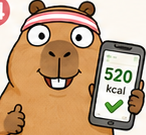
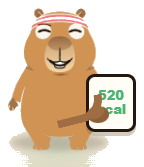
Use server-exported Mochi mascot in mobile APK

diff --git a/eatfitai-mobile/__tests__/mascotExperience.test.js b/eatfitai-mobile/__tests__/mascotExperience.test.js
@@ -7,7 +7,7 @@ const readSource = (relativePath) => {
 };
 
 describe('Mochi mascot experience', () => {
-  it('defines a reusable vector-rig Mochi component with the planned animation states', () => {
+  it('defines a reusable Mochi component with the planned animation states', () => {
     const source = readSource('src/components/MascotCharacter.tsx');
 
     expect(source).toContain('export type MascotState');
@@ -87,7 +87,7 @@ describe('Mochi mascot experience', () => {
     expect(testIdsSource).toContain("mochiPreviewScreen: 'mochi-preview-screen'");
   });
 
-  it('renders Mochi Room with a layered vector rig instead of PNG sprites or GLView', () => {
+  it('renders Mochi Room with the exported server mascot assets instead of the old generated vector look', () => {
     const roomSource = readSource('src/features/mochi/MochiRoomScene.tsx');
     const rigSource = readSource('src/features/mochi/MochiRig.tsx');
     const previewSource = readSource('src/app/screens/dev/MochiPreviewScreen.tsx');
@@ -100,14 +100,14 @@ describe('Mochi mascot experience', () => {
     expect(roomSource).not.toContain('CapsuleGeometry');
     expect(previewSource).not.toContain('MascotCharacter');
     expect(rigSource).toContain('MOCHI_VECTOR_LAYERS');
+    expect(rigSource).toContain("rendererMode = 'pngFallback'");
+    expect(rigSource).toContain('MOCHI_ASSETS[poseMeta.sourceAsset]');
     expect(rigSource).toContain('mochiHeadbandPink');
     expect(rigSource).toContain('mochiInk');
     expect(rigSource).toContain('MUZZLE');
     expect(rigSource).toContain('renderEyes');
     expect(rigSource).toContain("expression === 'drinkWater'");
     expect(rigSource).toContain('activeAccessoryIds');
-    expect(rigSource).not.toContain('<Image');
-    expect(rigSource).not.toContain('.png');
     expect(rigSource).not.toContain('mochiBellyCream');
   });
 

diff --git a/eatfitai-mobile/src/features/mochi/MochiRig.tsx b/eatfitai-mobile/src/features/mochi/MochiRig.tsx
@@ -1,5 +1,5 @@
 import React, { useEffect } from 'react';
-import { StyleSheet, View } from 'react-native';
+import { Image, StyleSheet, View } from 'react-native';
 import Animated, {
   Easing,
   cancelAnimation,
@@ -24,6 +24,7 @@ import Svg, {
 } from 'react-native-svg';
 
 import { MOCHI_VECTOR_TRACE_XML } from './mochiVectorTraceAssets';
+import { MOCHI_ASSETS } from '../../assets/mascot/mochi/mochiAssets';
 import {
   MOCHI_POSE_CATALOG,
   MOCHI_VECTOR_LAYERS as VECTOR_LAYERS,
@@ -951,7 +952,7 @@ const MochiRig = ({
   expression,
   size,
   pose,
-  rendererMode = 'vector',
+  rendererMode = 'pngFallback',
   animated = true,
   activeAccessoryIds,
   hasReminder = false,
@@ -1084,7 +1085,13 @@ const MochiRig = ({
       style={[styles.root, { width: size, height: size }]}
     >
       <Animated.View style={[styles.rigMotion, rigMotionStyle]}>
-        {canRenderTrace && tracedXml ? (
+        {rendererMode === 'pngFallback' ? (
+          <Image
+            source={MOCHI_ASSETS[poseMeta.sourceAsset]}
+            resizeMode="contain"
+            style={styles.pngMascot}
+          />
+        ) : canRenderTrace && tracedXml ? (
           <SvgXml xml={tracedXml} width="100%" height="100%" />
         ) : (
           <Svg width="100%" height="100%" viewBox="0 0 240 240">
@@ -1169,6 +1176,10 @@ const styles = StyleSheet.create({
     width: '100%',
     height: '100%',
     overflow: 'visible',
+  },
+  pngMascot: {
+    width: '100%',
+    height: '100%',
   },
 });
 

diff --git a/eatfitai-mobile/src/assets/mascot/mochi/mochiAssets.ts b/eatfitai-mobile/src/assets/mascot/mochi/mochiAssets.ts
@@ -31,7 +31,7 @@ export type MochiAssetMeta = {
   sourceSheet: string;
 };
 
-export const MOCHI_SOURCE_SHEET = 'ChatGPT Image 16_21_49 13 thg 5, 2026.png';
+export const MOCHI_SOURCE_SHEET = 'mochi-handdrawn-study.html export, 2026-05-15';
 
 export const MOCHI_ASSETS: Record<MochiAssetKey, ImageSourcePropType> = {
   idle: require('./characters/01_idle.png'),
@@ -86,4 +86,3 @@ export const MOCHI_ASSET_METADATA: Record<MochiAssetKey, MochiAssetMeta> = {
   streakTracking: { fileName: '23_streak_tracking.png', sourceSheet: MOCHI_SOURCE_SHEET },
   goalComplete: { fileName: '24_goal_complete.png', sourceSheet: MOCHI_SOURCE_SHEET },
 };
-

diff --git a/eatfitai-mobile/src/app/screens/auth/WelcomeScreen.tsx b/eatfitai-mobile/src/app/screens/auth/WelcomeScreen.tsx
@@ -34,7 +34,7 @@ import { TEST_IDS } from '../../../testing/testIds';
 import Tilt3DCard, { ParallaxLayer } from '../../../components/ui/Tilt3DCard';
 import { useAuthStore } from '../../../store/useAuthStore';
 import Toast from 'react-native-toast-message';
-import { logger } from '../../../utils/logger';
+import logger from '../../../utils/logger';
 
 const { width, height } = Dimensions.get('window');
 

diff --git a/eatfitai-mobile/src/features/mochi/MochiRoomScene.tsx b/eatfitai-mobile/src/features/mochi/MochiRoomScene.tsx
@@ -30,7 +30,7 @@ type MochiRoomSceneProps = {
   animated?: boolean;
 };
 
-export const MOCHI_ROOM_RENDERER = 'vector-rig';
+export const MOCHI_ROOM_RENDERER = 'server-png-export';
 
 const getAnimationIntensity = (animation: MochiAnimation): number => {
   if (animation === 'celebrate') return 1.45;
